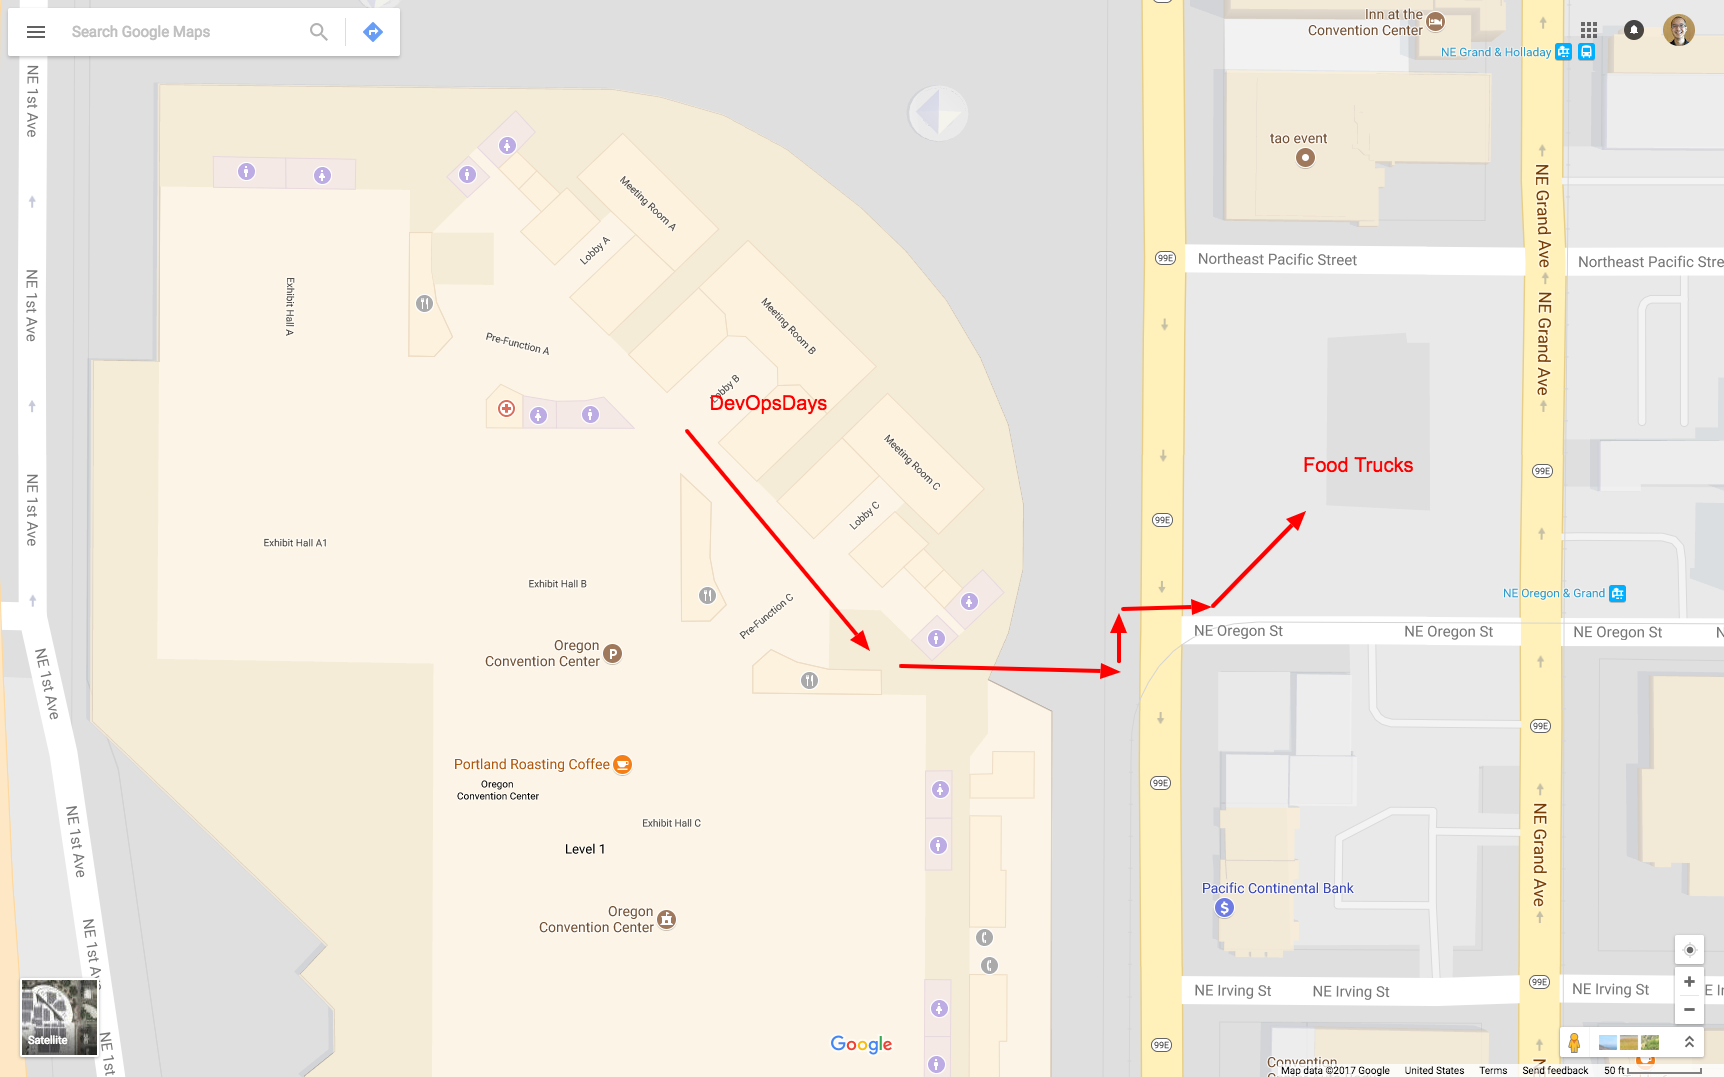
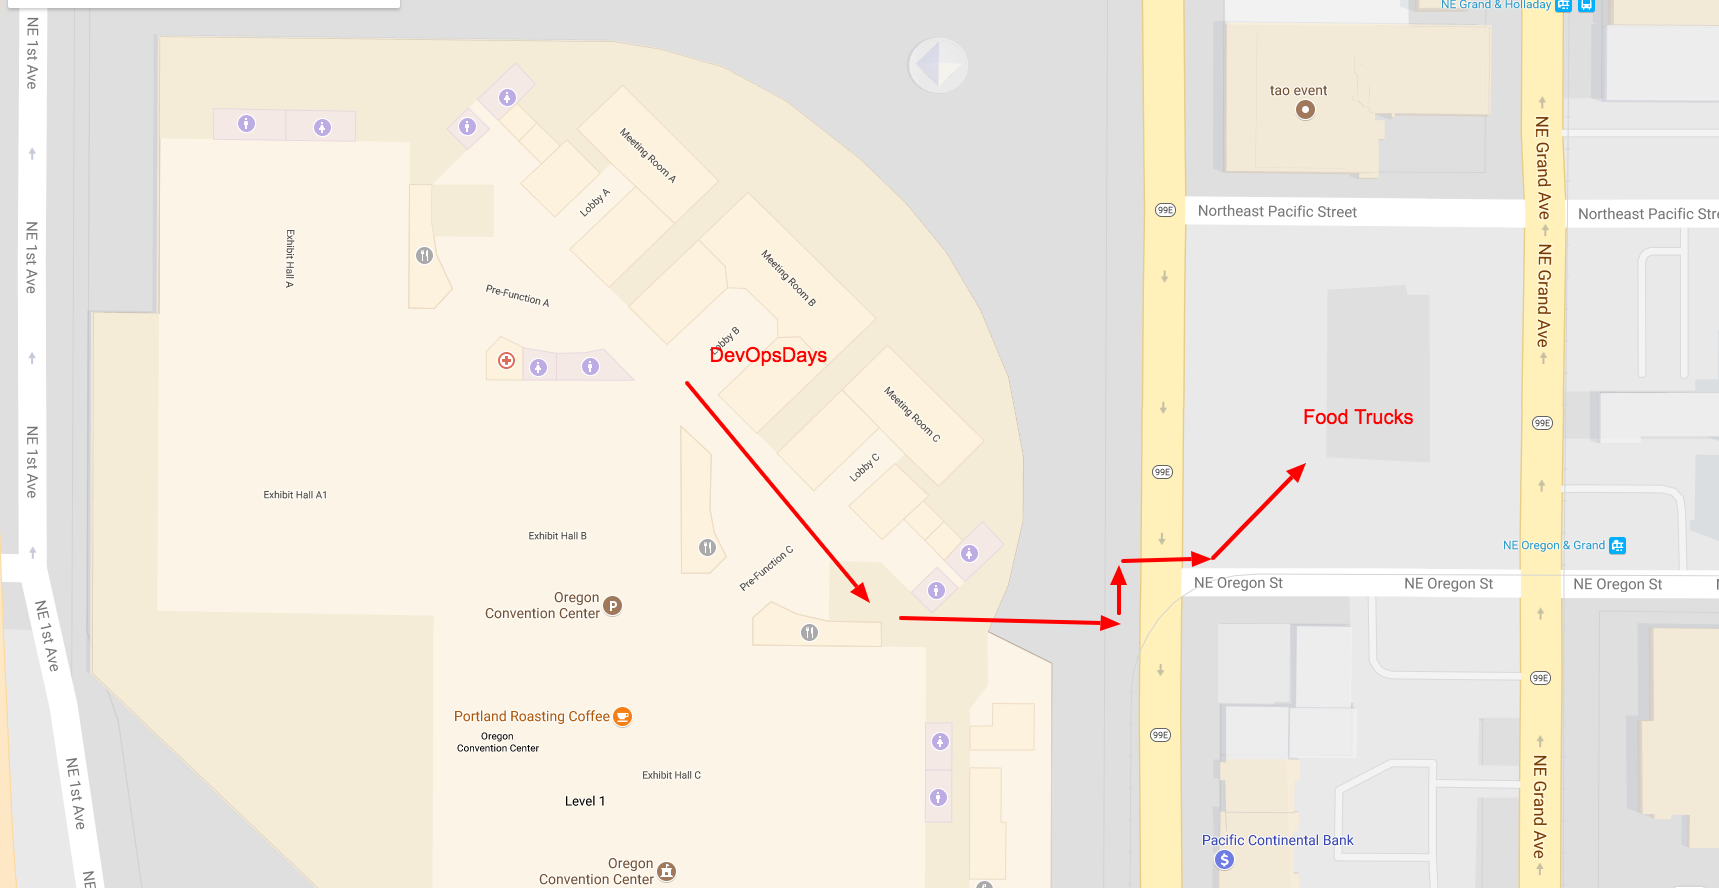
Crop the map, add a blurb about how eating is a thing that is sometimes done GF or vegan.

diff --git a/content/events/2017-portland/welcome.md b/content/events/2017-portland/welcome.md
@@ -114,6 +114,8 @@ We're pleased to announce [IGNW](http://www.ignw.io) as a platinum sponsor of ou
 <!-- commenting out the Azure stuff while we wait for the sweet, sweet dolla, dolla bills to roll in -->
 <!-- We're pleased to announce [Microsoft Azure](https://azure.microsoft.com/en-us/?v=17.14) as the lunch sponsor of our conference:  -->
 
+We are providing lunch via Portland’s famous food carts! Carts will be located directly across the street to the East from the main entrance to the OCC. There will be gluten free, vegan, and other speciality diet options available.
+
 <h5>Lunch Location:</h5>
 <a href="/events/2017-portland/pdx2017_food_trucks_map.png"><img width="768" src="/events/2017-portland/pdx2017_food_trucks_map.png" /></a>
 
